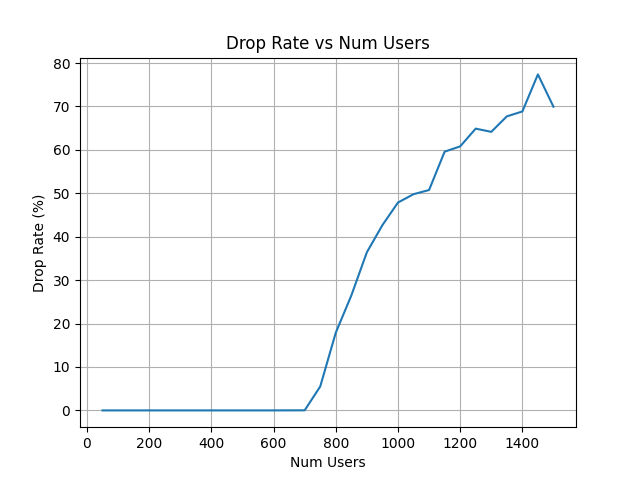
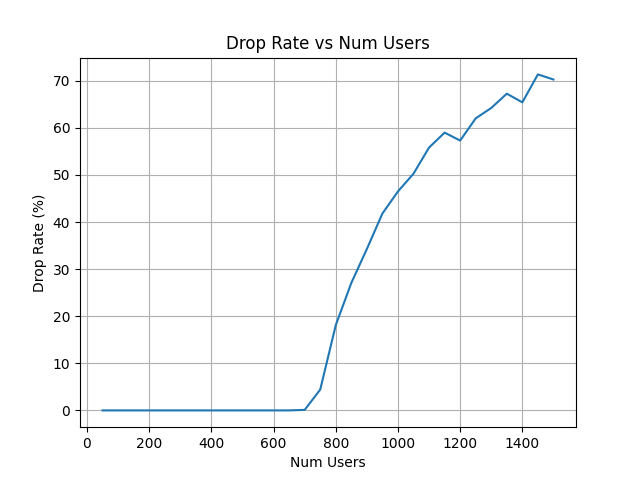
minor changes to run.py and stats.py (throughput issue), added a few plots

diff --git a/Assignment2/stats.py b/Assignment2/stats.py
@@ -45,7 +45,7 @@ def get_sim_stats(sim_dir, num_runs, window = 40, cutoff = None):
 	resps = runs[:,0]
 	# print(resps)
 	std = np.std(resps) 
-	ci = 1.96 * std / math.sqrt(len(resps))
+	ci = 1.645 * std / math.sqrt(len(resps))
 	# print(ci)
 
 	return {
@@ -59,14 +59,17 @@ def get_sim_stats(sim_dir, num_runs, window = 40, cutoff = None):
 
 def get_serv_stats(dir, serv_id, num_runs, cutoff=100):
 	runs = []
+	if (cutoff is None):
+		m = consolidate(dir, num_runs)
+		cutoff = welch_cutoff(f"{dir}/consolidated.tsv", num_runs, m, 40)
 	for i in range(num_runs):
 		file = f"{dir}/run_{i+1}/server_{serv_id}.log"
 		df = pd.read_csv(file, sep=',',names=serv_cols,header=None)
 		active = df['active'].iloc[-1] - df["active"].iloc[0]
 		num_in = df['num'].iloc[-1] - df['num'].iloc[0]
 		time = df['time'].iloc[-1] - df['time'].iloc[0]
-		throughput = (df['good'].iloc[-1] - df['bad'].iloc[0]) / time
-		throughput += (df['good'].iloc[-1] - df['good'].iloc[0]) / time
+		throughput = (df['bad'].iloc[-1] - df['bad'].iloc[cutoff]) / time
+		throughput += (df['good'].iloc[-1] - df['good'].iloc[cutoff]) / time
 		runs.append([
 			active / time,
 			num_in / time,
@@ -161,7 +164,7 @@ def get_mva_stats(file, users):
 
 def plot_stats(dirname, users, stats):
 	# plt.plot(users, stats["resps"])
-	plt.errorbar(users, stats["resps"], yerr=stats["cis"],color="blue",ecolor="orange", lw=0.5)
+	plt.errorbar(users, stats["resps"], yerr=stats["cis"],color="blue",ecolor="red", lw=0.7, elinewidth=0.9)
 	plt.title("Response Times vs Num Users")
 	plt.ylabel("Response Times (s)")
 	plt.xlabel("Num Users")
@@ -243,7 +246,7 @@ def plot_stats(dirname, users, stats):
 def plot_with_mva(dirname, users, stats, mvafile, realdata = None):
 	mva_stats = get_mva_stats(mvafile, users)
 
-	plt.errorbar(users, stats["resps"], yerr=stats["cis"],color="blue",ecolor="orange", lw=0.5, label="simulated")
+	plt.errorbar(users, stats["resps"], yerr=stats["cis"],color="blue",ecolor="orange", lw=0.8, label="simulated")
 	plt.plot(users, mva_stats["resp"], label="mva", color='red', ls="--")
 	if(realdata):
 		plt.plot(users, realdata["resp"], label="measured")

diff --git a/Assignment2/run.py b/Assignment2/run.py
@@ -150,7 +150,7 @@ def welch_cutoff(consolidated_file_name, r, m, win_size, tol = 0.0025):
         cutoff_time = 0
         plt.plot(window_means)
         plt.title("Window Means (for Welch)")
-        plt.show()
+        # plt.show()
         plt.close()
         for i in range(m - win_size + 1 - 10):
             if abs(window_means[i] - window_means[i + 10]) < tol:
